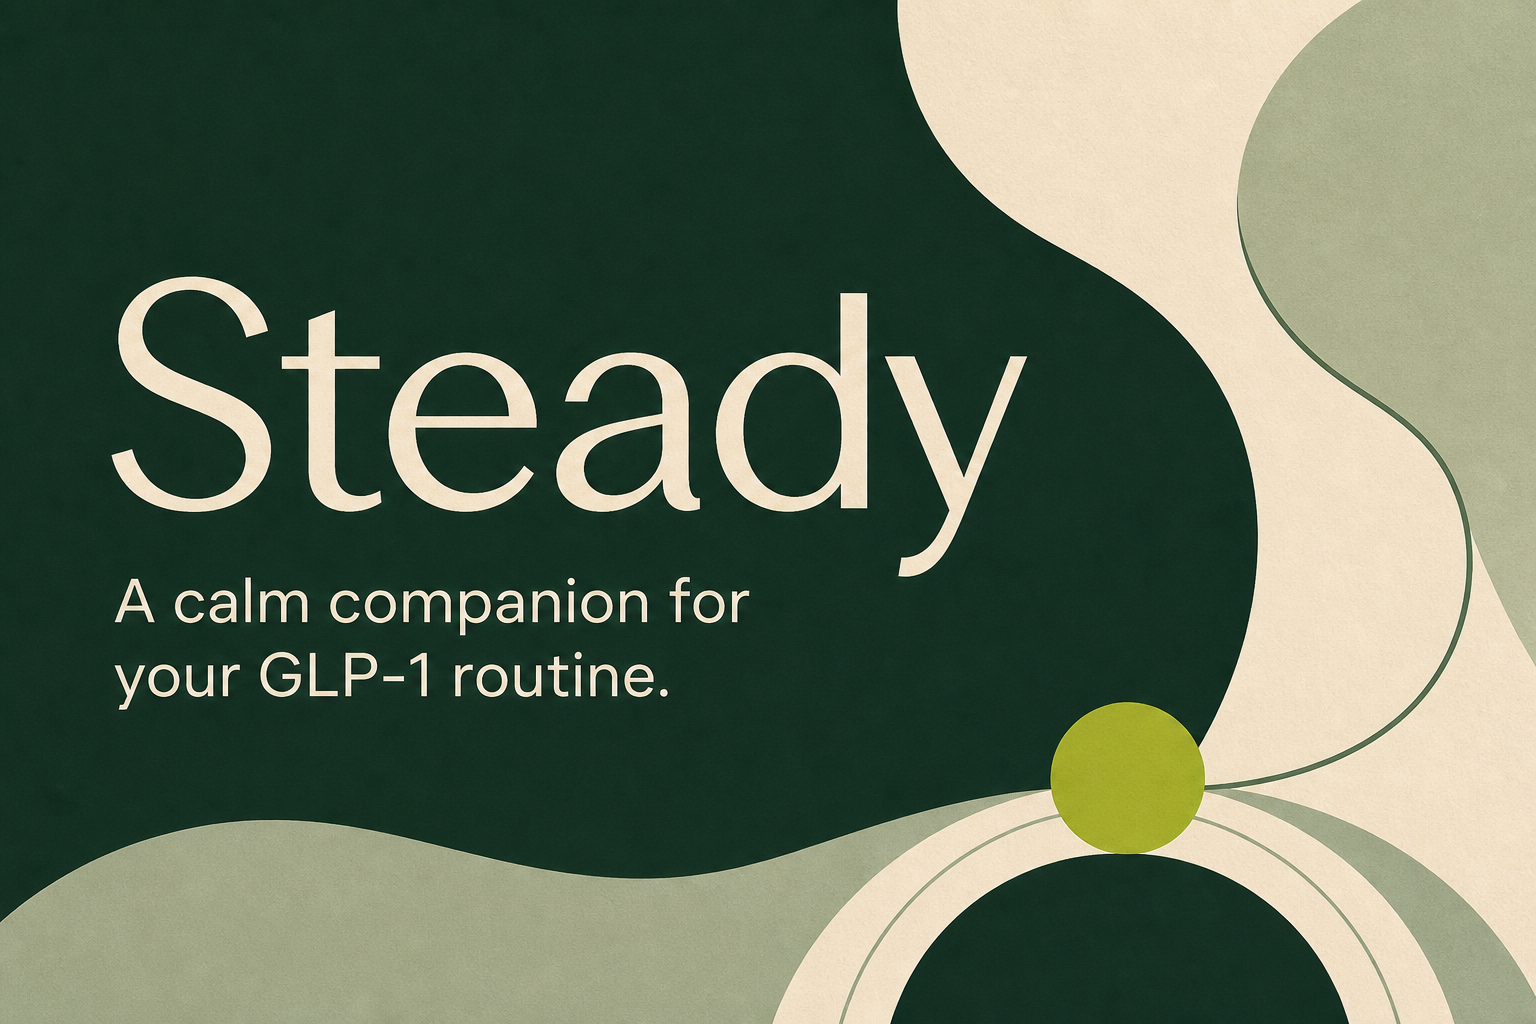
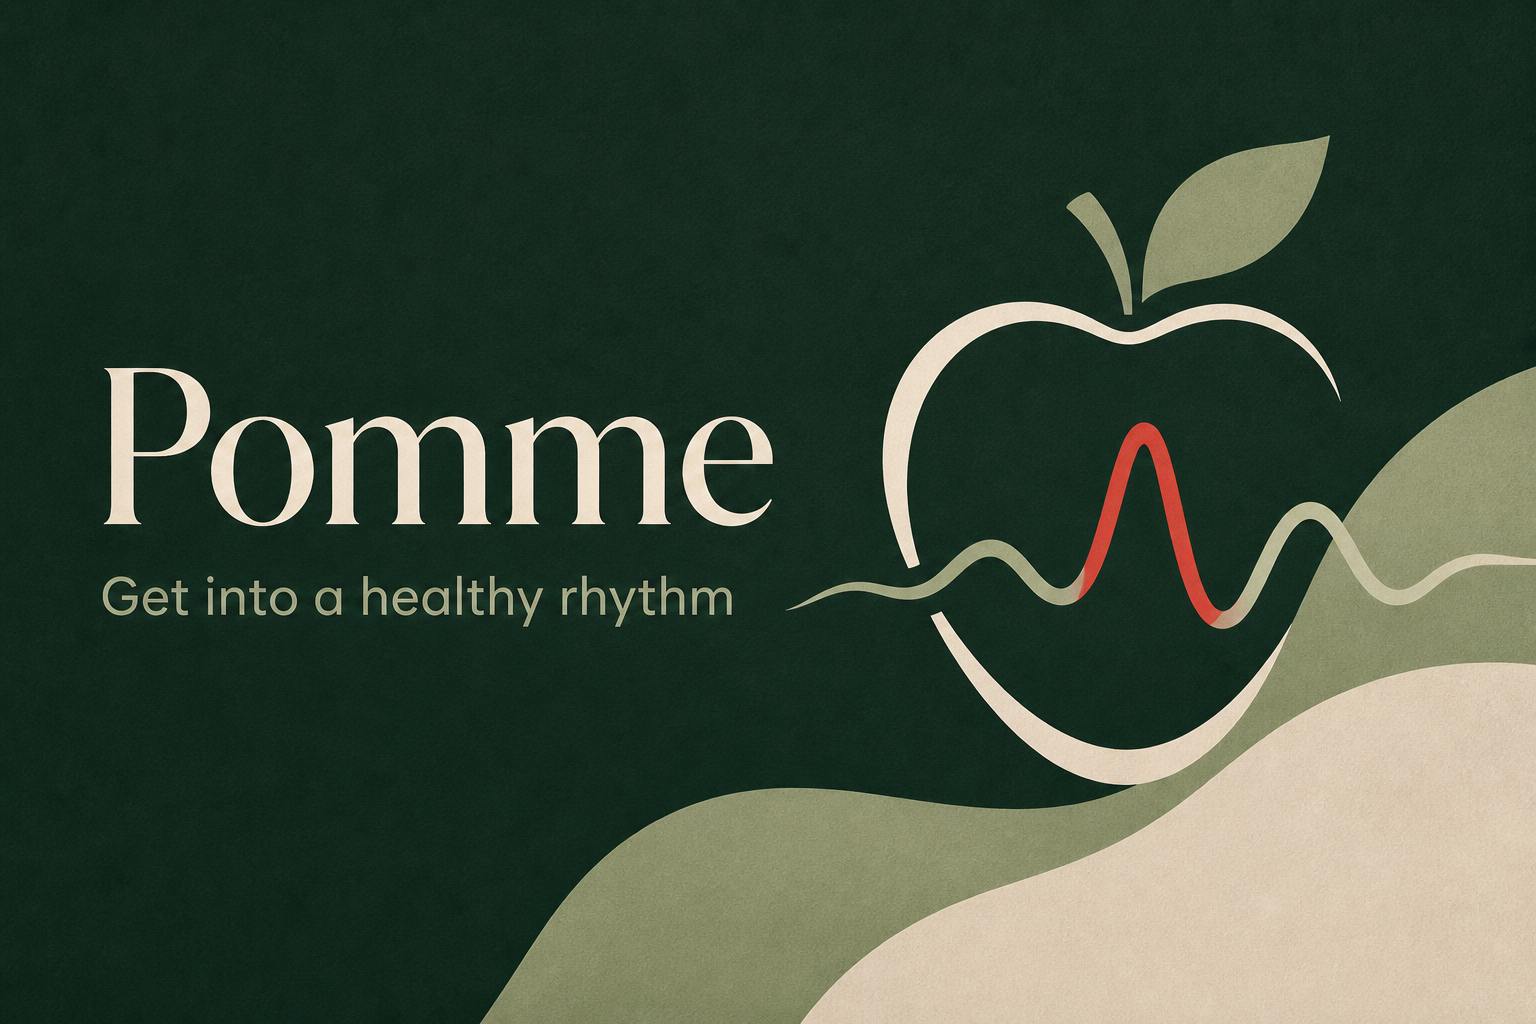
Rename Steady to Pomme

diff --git a/app/page.tsx b/app/page.tsx
@@ -78,7 +78,7 @@ export default function Home() {
     <main className="min-h-screen bg-[#eef1e9] text-[#18372f]">
       <div className="mx-auto min-h-screen max-w-md bg-[#fbfcf8] pb-28 shadow-2xl">
         <header className="flex items-center justify-between px-5 pb-4 pt-7">
-          <div><p className="text-[11px] font-bold uppercase tracking-[.18em] text-[#789087]">Steady · {sync}</p><h1 className="mt-1 text-2xl font-semibold">Your GLP-1 day</h1></div>
+          <div><p className="text-[11px] font-bold uppercase tracking-[.18em] text-[#789087]">Pomme · {sync}</p><h1 className="mt-1 text-2xl font-semibold">Get into a healthy rhythm</h1></div>
           <button onClick={() => setSheet('settings')} aria-label="Open settings" className="grid h-11 w-11 place-items-center rounded-full bg-[#deecdf] text-xl">⚙</button>
         </header>
 
@@ -114,7 +114,7 @@ export default function Home() {
         {tab === 'log' && <section className="px-5"><h2 className="text-xl font-semibold">Today’s food log</h2><div className="mt-4 space-y-3">{data.foods.length ? data.foods.map((f,i)=><div key={`${f.name}-${i}`} className="flex justify-between rounded-2xl border border-[#e0e7de] bg-white p-4"><div><strong className="text-sm">{f.name}</strong><p className="mt-1 text-xs text-[#778a83]">{f.protein}g protein</p></div><span className="text-sm font-semibold">{f.calories} kcal</span></div>) : <p className="rounded-3xl bg-white p-8 text-center text-sm text-[#778a83]">No foods logged yet.</p>}</div></section>}
         {tab === 'plan' && <section className="px-5"><h2 className="text-xl font-semibold">Your weekly plan</h2><div className="mt-4 rounded-3xl bg-[#173f34] p-5 text-white"><p className="text-sm text-white/65">Next dose</p><p className="mt-1 text-2xl font-semibold">{dose} mg · {doseDay}</p><button onClick={enableReminders} className="mt-5 rounded-xl bg-[#d9f28b] px-4 py-3 text-sm font-bold text-[#17352d]">Enable phone reminders</button></div><div className="mt-4 rounded-3xl border border-[#e0e7de] bg-white p-5"><h3 className="font-semibold">Safety note</h3><p className="mt-2 text-sm leading-6 text-[#657a72]">Record the dose exactly as prescribed. Do not use this app to change or calculate your dose. For severe or persistent symptoms, contact your clinician.</p></div></section>}
 
-        <p className="px-8 pt-7 text-center text-[11px] leading-5 text-[#819089]">Steady supports tracking and is not medical advice. Vitamin needs and medication changes should be reviewed with your clinician or pharmacist.</p>
+        <p className="px-8 pt-7 text-center text-[11px] leading-5 text-[#819089]">Pomme supports tracking and is not medical advice. Vitamin needs and medication changes should be reviewed with your clinician or pharmacist.</p>
         <nav className="fixed bottom-0 left-1/2 z-20 flex w-full max-w-md -translate-x-1/2 justify-around border-t border-[#dfe6dc] bg-[#fbfcf8]/95 px-5 pb-[max(14px,env(safe-area-inset-bottom))] pt-3 backdrop-blur">{([['today','⌂','Today'],['log','≡','Food log'],['plan','♡','Plan']] as const).map(([id,icon,label])=><button key={id} onClick={()=>setTab(id)} className={`min-w-20 text-center ${tab===id?'text-[#215744]':'text-[#8c9994]'}`}><span className="block text-xl">{icon}</span><span className="text-[11px] font-semibold">{label}</span></button>)}</nav>
       </div>
 

diff --git a/app/layout.tsx b/app/layout.tsx
@@ -5,17 +5,17 @@ import './globals.css';
 const geist = Geist({ variable: '--font-geist-sans', subsets: ['latin'] });
 
 export const metadata: Metadata = {
-  title: 'Steady — GLP-1 Support',
-  description: 'A calm daily companion for your GLP-1 routine.',
+  title: 'Pomme — Get into a healthy rhythm',
+  description: 'A motivating daily companion for your GLP-1 routine.',
   openGraph: {
-    title: 'Steady — GLP-1 Support',
-    description: 'A calm companion for your GLP-1 routine.',
-    images: [{ url: '/og.png', width: 1536, height: 1024, alt: 'Steady — GLP-1 Support' }],
+    title: 'Pomme',
+    description: 'Get into a healthy rhythm',
+    images: [{ url: '/og.png', width: 1536, height: 1024, alt: 'Pomme — Get into a healthy rhythm' }],
   },
   twitter: {
     card: 'summary_large_image',
-    title: 'Steady — GLP-1 Support',
-    description: 'A calm companion for your GLP-1 routine.',
+    title: 'Pomme',
+    description: 'Get into a healthy rhythm',
     images: ['/og.png'],
   },
 };
